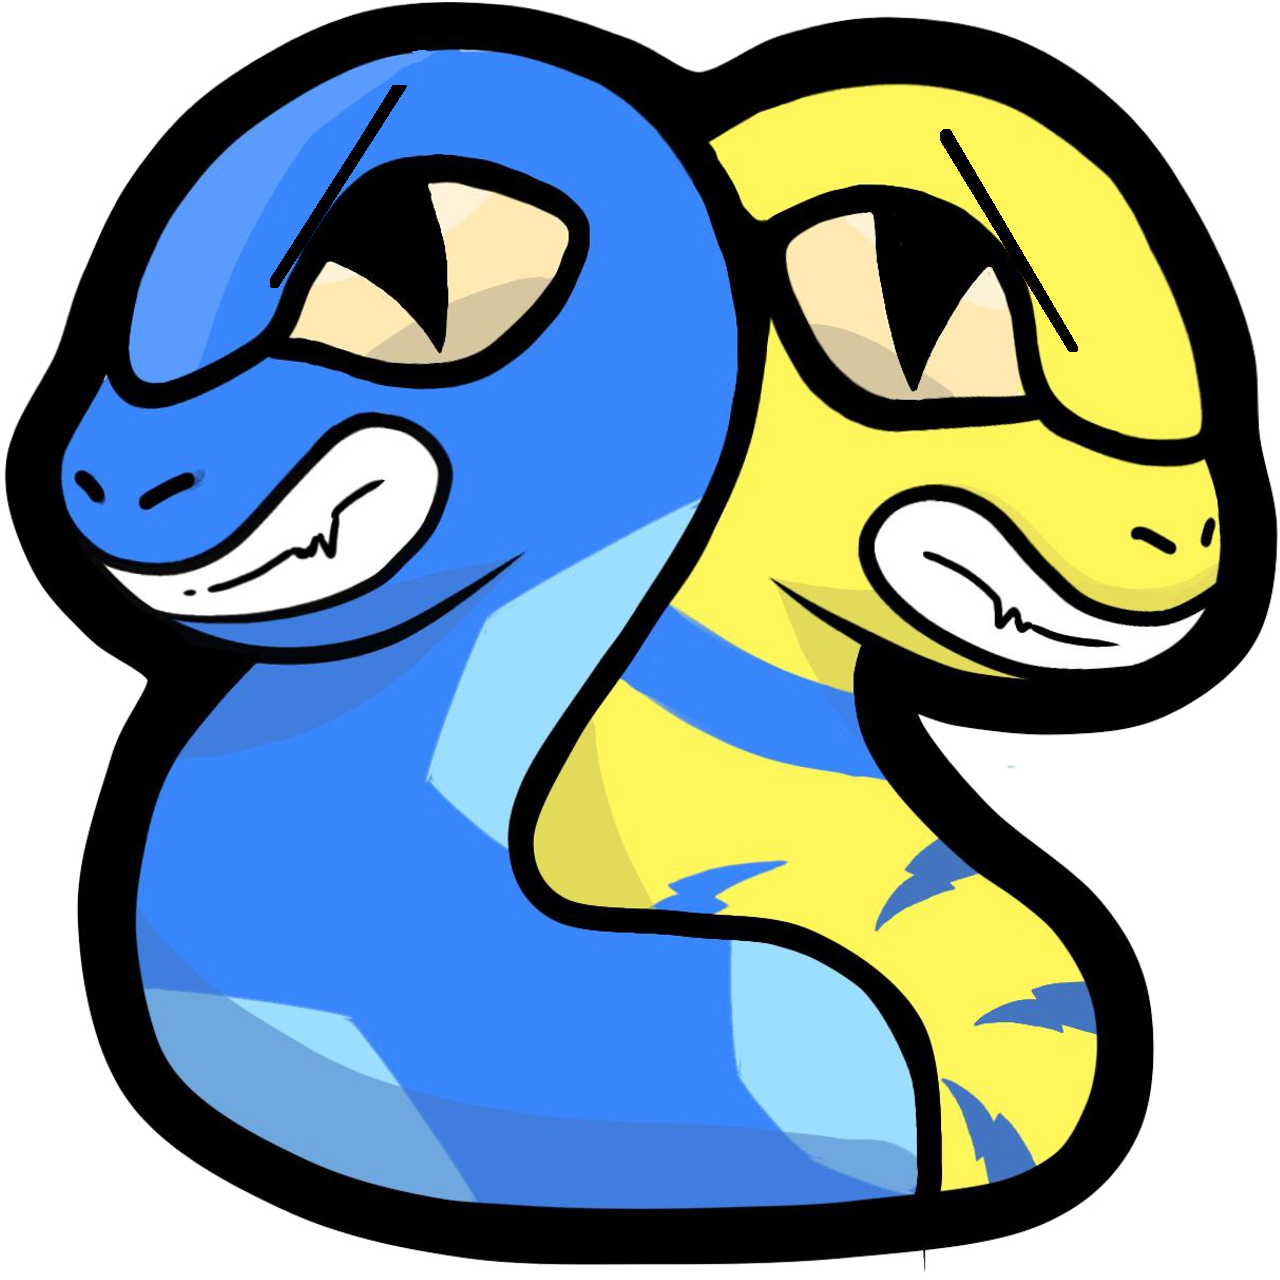
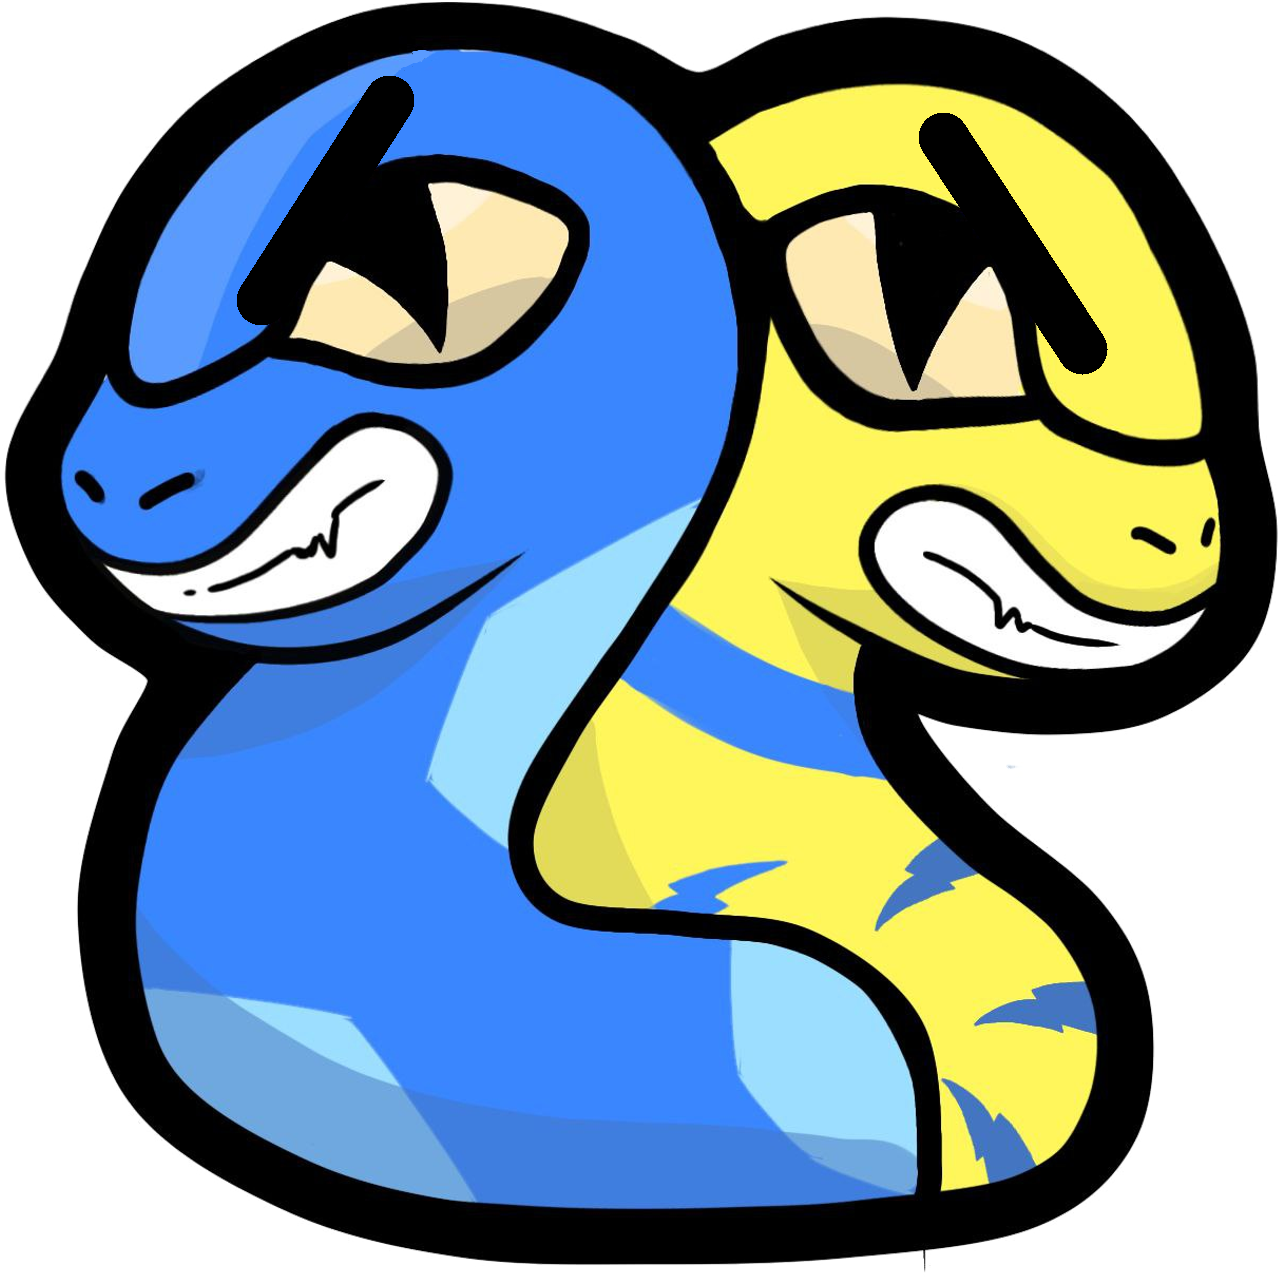
se pintan enemigos en mapa
se copian objetos de mokepones elegidos aleatoriamente en array
se asigna ubicación aleatoria a mokepones enemigos en mapa
se resaltan cejas de pydos enemigo
se cambia diseño de ojo de tucapalma jugador

Changed region(s): [[0.7188, 0.0625, 0.875, 0.3125], [0.1875, 0.0625, 0.3438, 0.25]]

diff --git a/js/mokepon.js b/js/mokepon.js
@@ -76,13 +76,9 @@ class Mokepon {
     pintarMokepon(){
         lienzo.drawImage(this.mapaFoto, this.x, this.y, this.ancho, this.alto)
     }
-
-    pintarMokeponEnemigo(){
-        lienzo.drawImage(this.alterEgoAvatar, this.x, this.y, this.ancho, this.alto)
-    }
-    
 }
  
+
     let hipodoge = new Mokepon('Hipodoge',3, './assets/hipodoge-jugador.png', './assets/hipodoge-avatar.png', './assets/hipodoge-enemigo.png', './assets/hipodoge-avatar-enemigo.png')
     let capipepo = new Mokepon('Capipepo',3, './assets/capipepo-jugador.png', './assets/capipepo-avatar.png', './assets/capipepo-enemigo.png','./assets/capipepo-avatar-enemigo.png' )
     let ratigueya = new Mokepon('Ratigueya',3, './assets/ratigueya-jugador.png', './assets/ratigueya-avatar.png', './assets/ratigueya-enemigo.png', './assets/ratigueya-avatar-enemigo.png')
@@ -140,6 +136,7 @@ class Mokepon {
     )
 
     mokepones.push(hipodoge,capipepo,ratigueya,langostelvis,pydos,tucapalma)
+
 
 function iniciarJuego(){
 
@@ -379,10 +376,9 @@ function iniciarMapa(){
      //Elegir enemigos aleatorios y dibujarlos
     for (let i = 0; i < enemigosEnMapa; i++) {
          numAleatorio = aleatorio(0,mokepones.length-1)
-         mokepones[numAleatorio].x = aleatorio(0,320)
-         mokepones[numAleatorio].y = aleatorio(0,260)
-         mascotaEnemigoObjeto[i] = mokepones[numAleatorio]
-         console.log(mascotaEnemigoObjeto[i])
+         mascotaEnemigoObjeto[i] = Object.assign({} , mokepones[numAleatorio])
+         mascotaEnemigoObjeto[i].x = aleatorio(0,300)
+         mascotaEnemigoObjeto[i].y = aleatorio(0,250)
      }
 
     window.addEventListener('keydown', sePresionoTecla)
@@ -395,13 +391,13 @@ function pintarCanvas(){
     lienzo.clearRect(0, 0, mapa.width, mapa.height)
     lienzo.drawImage(mapaBackground, 0, 0, mapa.width, mapa.height)
     mascotaJugadorObjeto.pintarMokepon()
+    pintarMokeponesEnemigos()
+}
 
-    //dibujar mokepones enemigos
-    for (let i = 0; i < enemigosEnMapa; i++) {
-        //("mascotaEnemigoObjeto:", mascotaEnemigoObjeto[i], "x:", mascotaEnemigoObjeto[i].x, "y:", mascotaEnemigoObjeto[i].y)
-        mascotaEnemigoObjeto[i].pintarMokeponEnemigo()
-    }
-    
+function pintarMokeponesEnemigos(){
+    for (let i = 0; i < mascotaEnemigoObjeto.length; i++) { 
+        lienzo.drawImage(mascotaEnemigoObjeto[i].alterEgoAvatar, mascotaEnemigoObjeto[i].x, mascotaEnemigoObjeto[i].y, mascotaEnemigoObjeto[i].ancho, mascotaEnemigoObjeto[i].alto)
+    } 
 }
 
 function moverMascotaArriba(){
